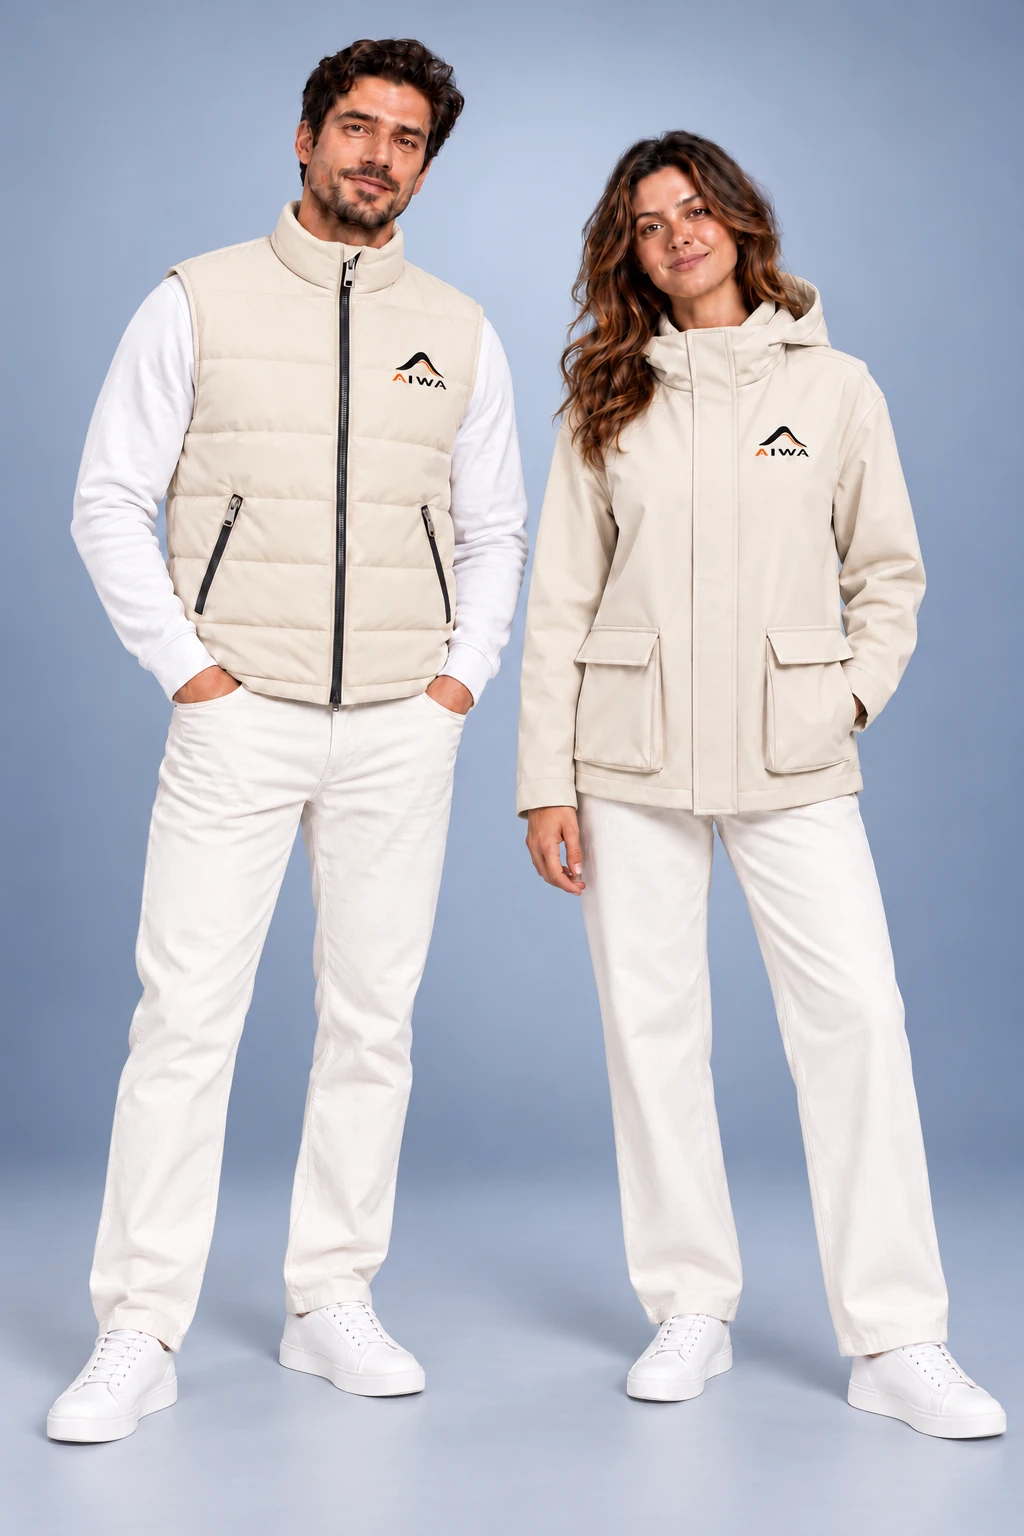
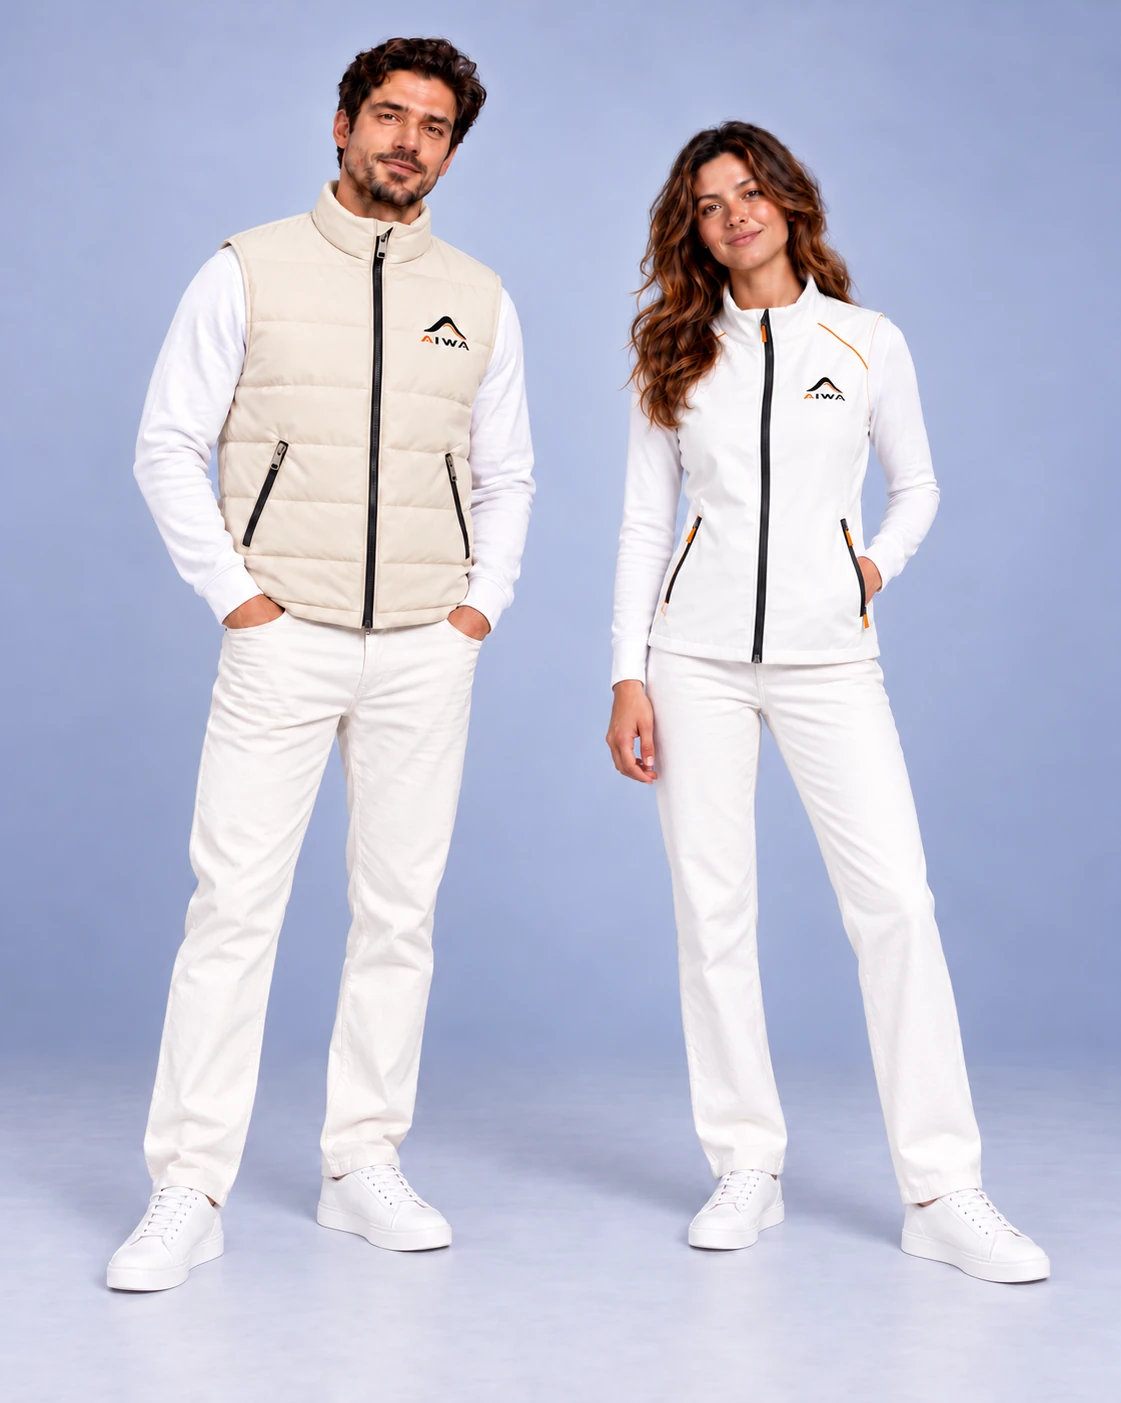
Добавить жилеты, куртки и бомберы AIWA

diff --git a/index.html b/index.html
@@ -110,8 +110,9 @@ const products={
 'casual-m-zip-set':{title:'Мужской и женский комплект на молнии',images:['casual-m-zip-set'],volleyball:true},
 'casual-w-set':{title:'Женский молочный комплект',images:['casual-w-set'],volleyball:true},
 'casual-w-zip-set':{title:'Мужской и женский комплект на молнии',images:['casual-w-zip-set'],volleyball:true},
-'casual-vest-jacket':{title:'Мужской жилет и женская куртка',images:['casual-vest-jacket'],volleyball:true},
-'casual-w-track-jacket':{title:'Женская куртка на молнии',images:['casual-w-track-jacket'],volleyball:true},
+'casual-vest-jacket':{title:'Мужской и женский жилет',images:['casual-vest-jacket'],volleyball:true},
+'casual-w-track-jacket':{title:'Мужская и женская куртка',images:['casual-w-track-jacket'],volleyball:true},
+ 'casual-bomber':{title:'Мужской и женский бомбер',images:['casual-bomber'],volleyball:true},
 'casual-skirt':{title:'Молочная юбка AIWA',images:['casual-skirt'],volleyball:true},
 'casual-shorts':{title:'Мужские шорты AIWA',images:['casual-shorts'],volleyball:true},
 'casual-weekender':{title:'Большая дорожная сумка',images:['casual-weekender'],volleyball:true},
@@ -146,8 +147,9 @@ const casualModels={
  {key:'casual-w-set',title:'Женский молочный комплект',image:'casual-w-set'},
  {key:'casual-w-zip-set',title:'Мужской и женский комплект на молнии',image:'casual-w-zip-set'}],
 'Жилеты и куртки':[
- {key:'casual-vest-jacket',title:'Мужской жилет и женская куртка',image:'casual-vest-jacket'},
- {key:'casual-w-track-jacket',title:'Женская куртка на молнии',image:'casual-w-track-jacket'}],
+ {key:'casual-vest-jacket',title:'Мужской и женский жилет',image:'casual-vest-jacket'},
+ {key:'casual-w-track-jacket',title:'Мужская и женская куртка',image:'casual-w-track-jacket'},
+ {key:'casual-bomber',title:'Мужской и женский бомбер',image:'casual-bomber'}],
 'Юбки и шорты':[
  {key:'casual-skirt',title:'Молочная юбка AIWA',image:'casual-skirt'},
  {key:'casual-shorts',title:'Мужские шорты AIWA',image:'casual-shorts'}],
